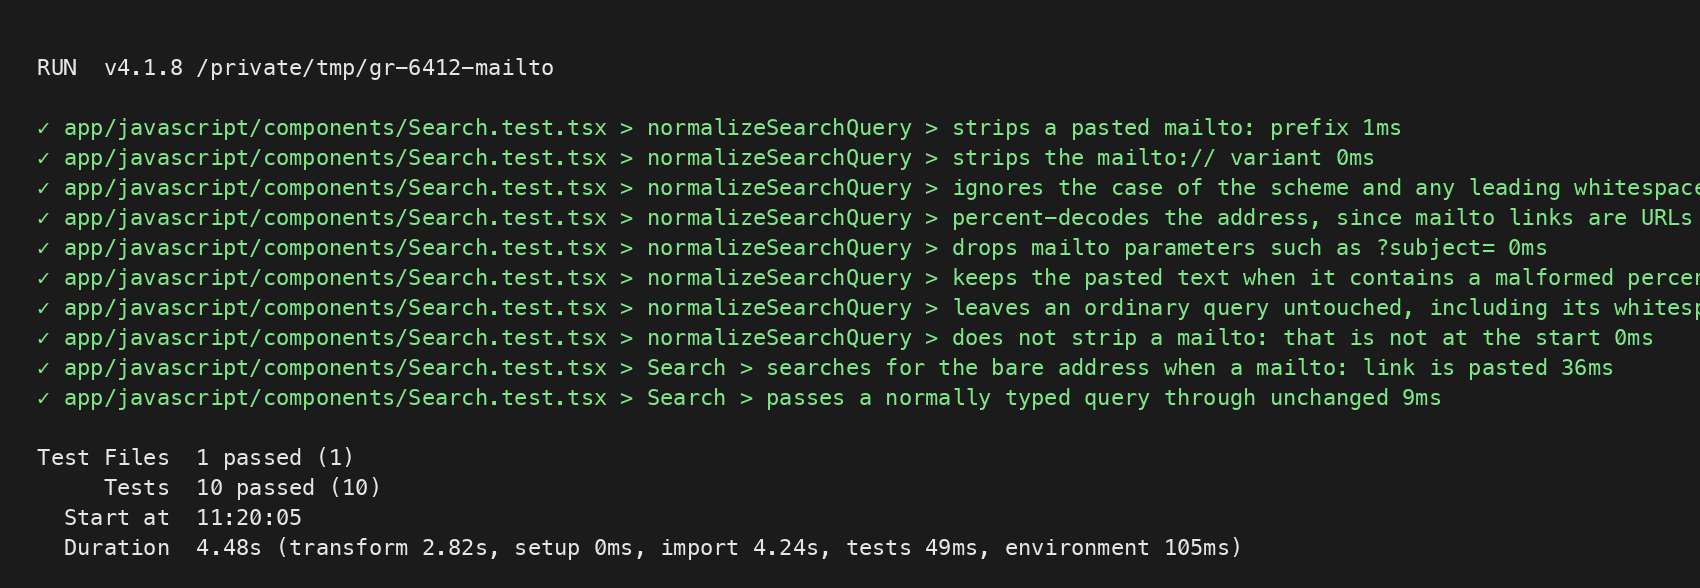
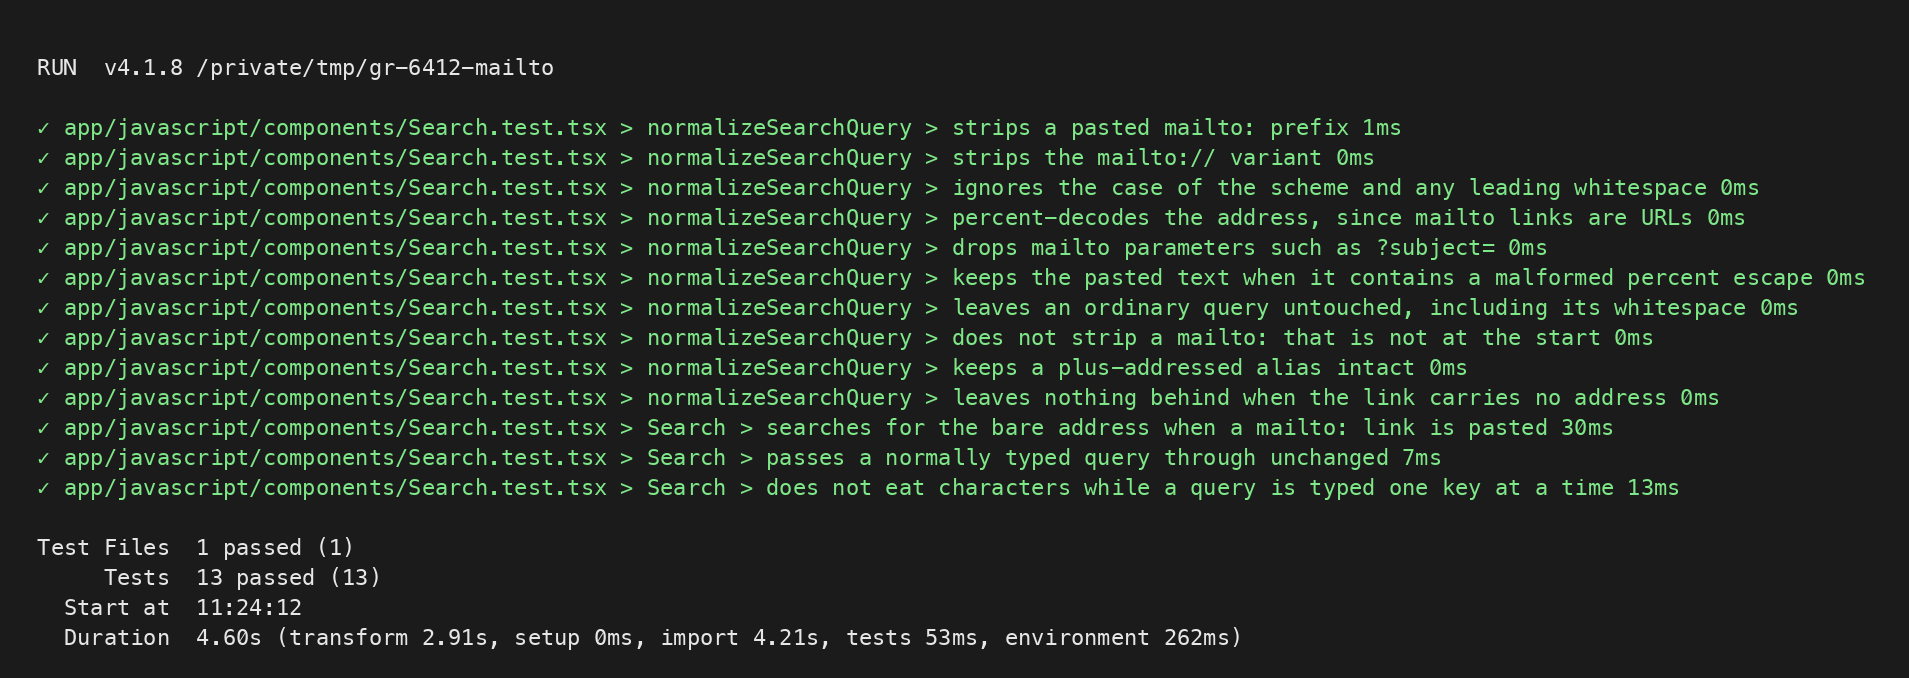
test: cover plus-addressed aliases, an empty mailto link, and per-keystroke typing
Edge cases found during the pre-merge review pass: a plus-addressed alias must
survive percent-decoding, "mailto:" with no address must not leave stray text,
and normalizing on every keystroke must not truncate a query mid-typing.

Changed region(s): [[0.0312, 0.1837, 1.0, 0.7347], [0.0, 0.7653, 0.7482, 0.949], [0.0, 0.0918, 0.3429, 0.1224]]

diff --git a/app/javascript/components/Search.test.tsx b/app/javascript/components/Search.test.tsx
@@ -50,6 +50,14 @@ describe("normalizeSearchQuery", () => {
   it("does not strip a mailto: that is not at the start", () => {
     expect(normalizeSearchQuery("about mailto:links")).toBe("about mailto:links");
   });
+
+  it("keeps a plus-addressed alias intact", () => {
+    expect(normalizeSearchQuery("mailto:jane+shop@example.com")).toBe("jane+shop@example.com");
+  });
+
+  it("leaves nothing behind when the link carries no address", () => {
+    expect(normalizeSearchQuery("mailto:")).toBe("");
+  });
 });
 
 describe("Search", () => {
@@ -74,5 +82,22 @@ describe("Search", () => {
 
     expect(onSearch).toHaveBeenLastCalledWith("Jane");
     expect(input.value).toBe("Jane");
+  });
+
+  it("does not eat characters while a query is typed one key at a time", () => {
+    const onSearch = vi.fn();
+    render(<Search value="" onSearch={onSearch} placeholder="Search sales" />);
+
+    // Normalizing on every keystroke would be a problem if it could truncate a query mid-typing,
+    // so walk a name through character by character the way a real seller types it.
+    const input = openSearch();
+    let typed = "";
+    for (const character of "Jane Cooper") {
+      typed += character;
+      fireEvent.change(input, { target: { value: typed } });
+      expect(input.value).toBe(typed);
+    }
+
+    expect(onSearch).toHaveBeenLastCalledWith("Jane Cooper");
   });
 });
